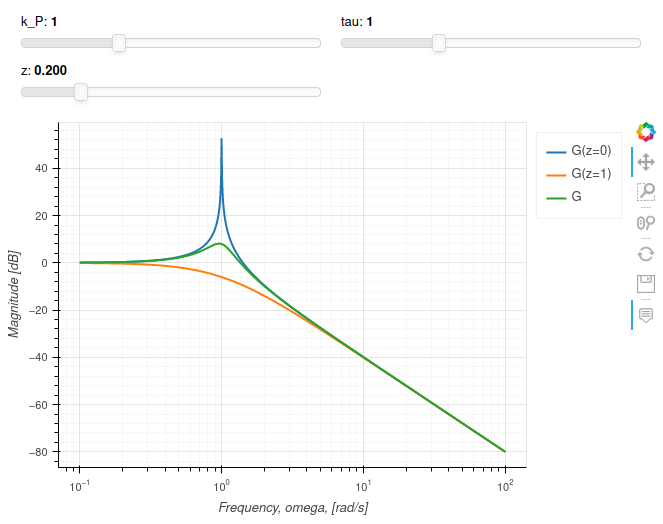
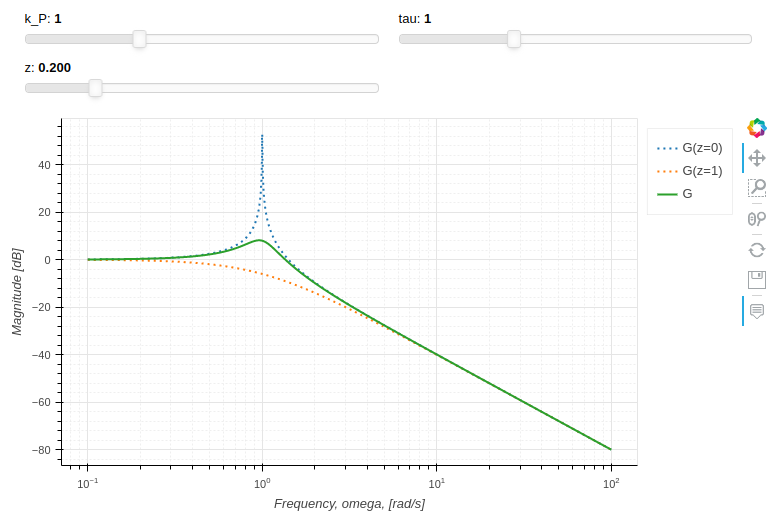
update documentation

diff --git a/doc/source/overview.rst b/doc/source/overview.rst
@@ -68,6 +68,10 @@ More information about the backends can be found at:
 Examples
 ========
 
+Originally, the module has been developed with SymPy in mind, however it has
+evolved to the point where we lambda functions can be used instead of symbolic
+expressions.
+
 The following code blocks shows a few examples about the capabilities of
 this module. Please, try them on a Jupyter Notebook to explore the interactive
 figures.
@@ -86,6 +90,21 @@ Polar plot with Matplotlib:
 .. image:: _static/polar_matplotlib.png
   :width: 600
   :alt: polar plot with matplotlib
+
+
+2D parametric plot with Matplotlib, using Numpy and lambda functions:
+
+.. code-block:: python
+
+   import numpy as np
+   from spb import plot_parametric
+   plot_parametric(
+      lambda t: np.sin(3 * t + np.pi / 4), lambda t: np.sin(4 * t),
+      ("t", 0, 2 * pi), "t [rad]", xlabel="x", ylabel="y", aspect="equal")
+
+.. image:: _static/parametric_matplotlib.png
+  :width: 600
+  :alt: 2D parametric plot with matplotlib
 
 
 3D plot with K3D-Jupyter and cartesian discretization:
@@ -213,16 +232,15 @@ function:
 .. code-block:: python
 
    from sympy import symbols, log, sqrt, re, im, I
-   from spb.interactive import iplot
-   from spb import BB
+   from spb import plot, BB
    from bokeh.models.formatters import PrintfTickFormatter
    formatter = PrintfTickFormatter(format="%.3f")
    kp, t, z, o = symbols("k_P, tau, zeta, omega")
    G = kp / (I**2 * t**2 * o**2 + 2 * z * t * o * I + 1)
    mod = lambda x: 20 * log(sqrt(re(x)**2 + im(x)**2), 10)
-   iplot(
-       (mod(G.subs(z, 0)), (o, 0.1, 100), "G(z=0)"),
-       (mod(G.subs(z, 1)), (o, 0.1, 100), "G(z=1)"),
+   plot(
+       (mod(G.subs(z, 0)), (o, 0.1, 100), "G(z=0)", {"line_dash": "dotted"}),
+       (mod(G.subs(z, 1)), (o, 0.1, 100), "G(z=1)", {"line_dash": "dotted"}),
        (mod(G), (o, 0.1, 100), "G"),
        params = {
            kp: (1, 0, 3),
@@ -277,6 +295,9 @@ Differences with sympy.plotting
 
 * `sympy.plotting` exposed the ``nb_of_points_*`` keyword arguments. These have
   been replaced with ``n`` or ``n1, n2``.
+
+* `sympy.plotting` exposed the ``TextBackend`` class to create very basic
+  plots on a terminal window. This module removed it.
 
   The following example compares how to customize a plot created with
   `sympy.plotting` and one created with this module.

diff --git a/doc/source/index.rst b/doc/source/index.rst
@@ -7,10 +7,11 @@ Welcome to Sympy Plotting Backends's documentation!
 ===================================================
 
 This Python module contains a few plotting backends that can be used with
-`SymPy <http://github.com/sympy/sympy/>`_ . A backend represents the plotting
-library: it provides the necessary functionalities to quickly and easily plot
-the most common types of symbolic expressions, such as line plots, surface
-plots, parametric plots, vector plots, complex plots, geometric plots.
+`SymPy <http://github.com/sympy/sympy/>`_ and `Numpy <https://github.com/numpy/numpy>`_.
+A backend represents the plotting library:
+it provides the necessary functionalities to quickly creates the most common
+types of plots, such as line plots, surface plots, parametric plots,
+vector plots, complex plots, geometric plots.
 
 It also provide an interactive plotting function, ``iplot``, which automatically generates widgets (sliders, buttons, ...) starting from symbolic expressions. It allows to better understand the influence of each parameters in a particular expression, without the knowledge of complicated widget libraries.
 

diff --git a/doc/source/changelog.rst b/doc/source/changelog.rst
@@ -2,6 +2,20 @@
  Changelog
 ==========
 
+v1.2.2
+======
+
+* Added support for plotting numerical vectorized functions. Many of the
+  plotting functions exposed by this module are now able to deal with both
+  symbolic expressions as well as numerical functions. This extends the scope
+  of this module, as it is possible to use it directly with numpy and lambda
+  functions. For example, the following is now supported:
+
+  .. code-block:: python
+
+       import numpy as np
+       plot(lambda t: np.cos(x) * np.exp(-x / 5), ("t", 0, 10))
+
 v1.2.1
 ======
 
